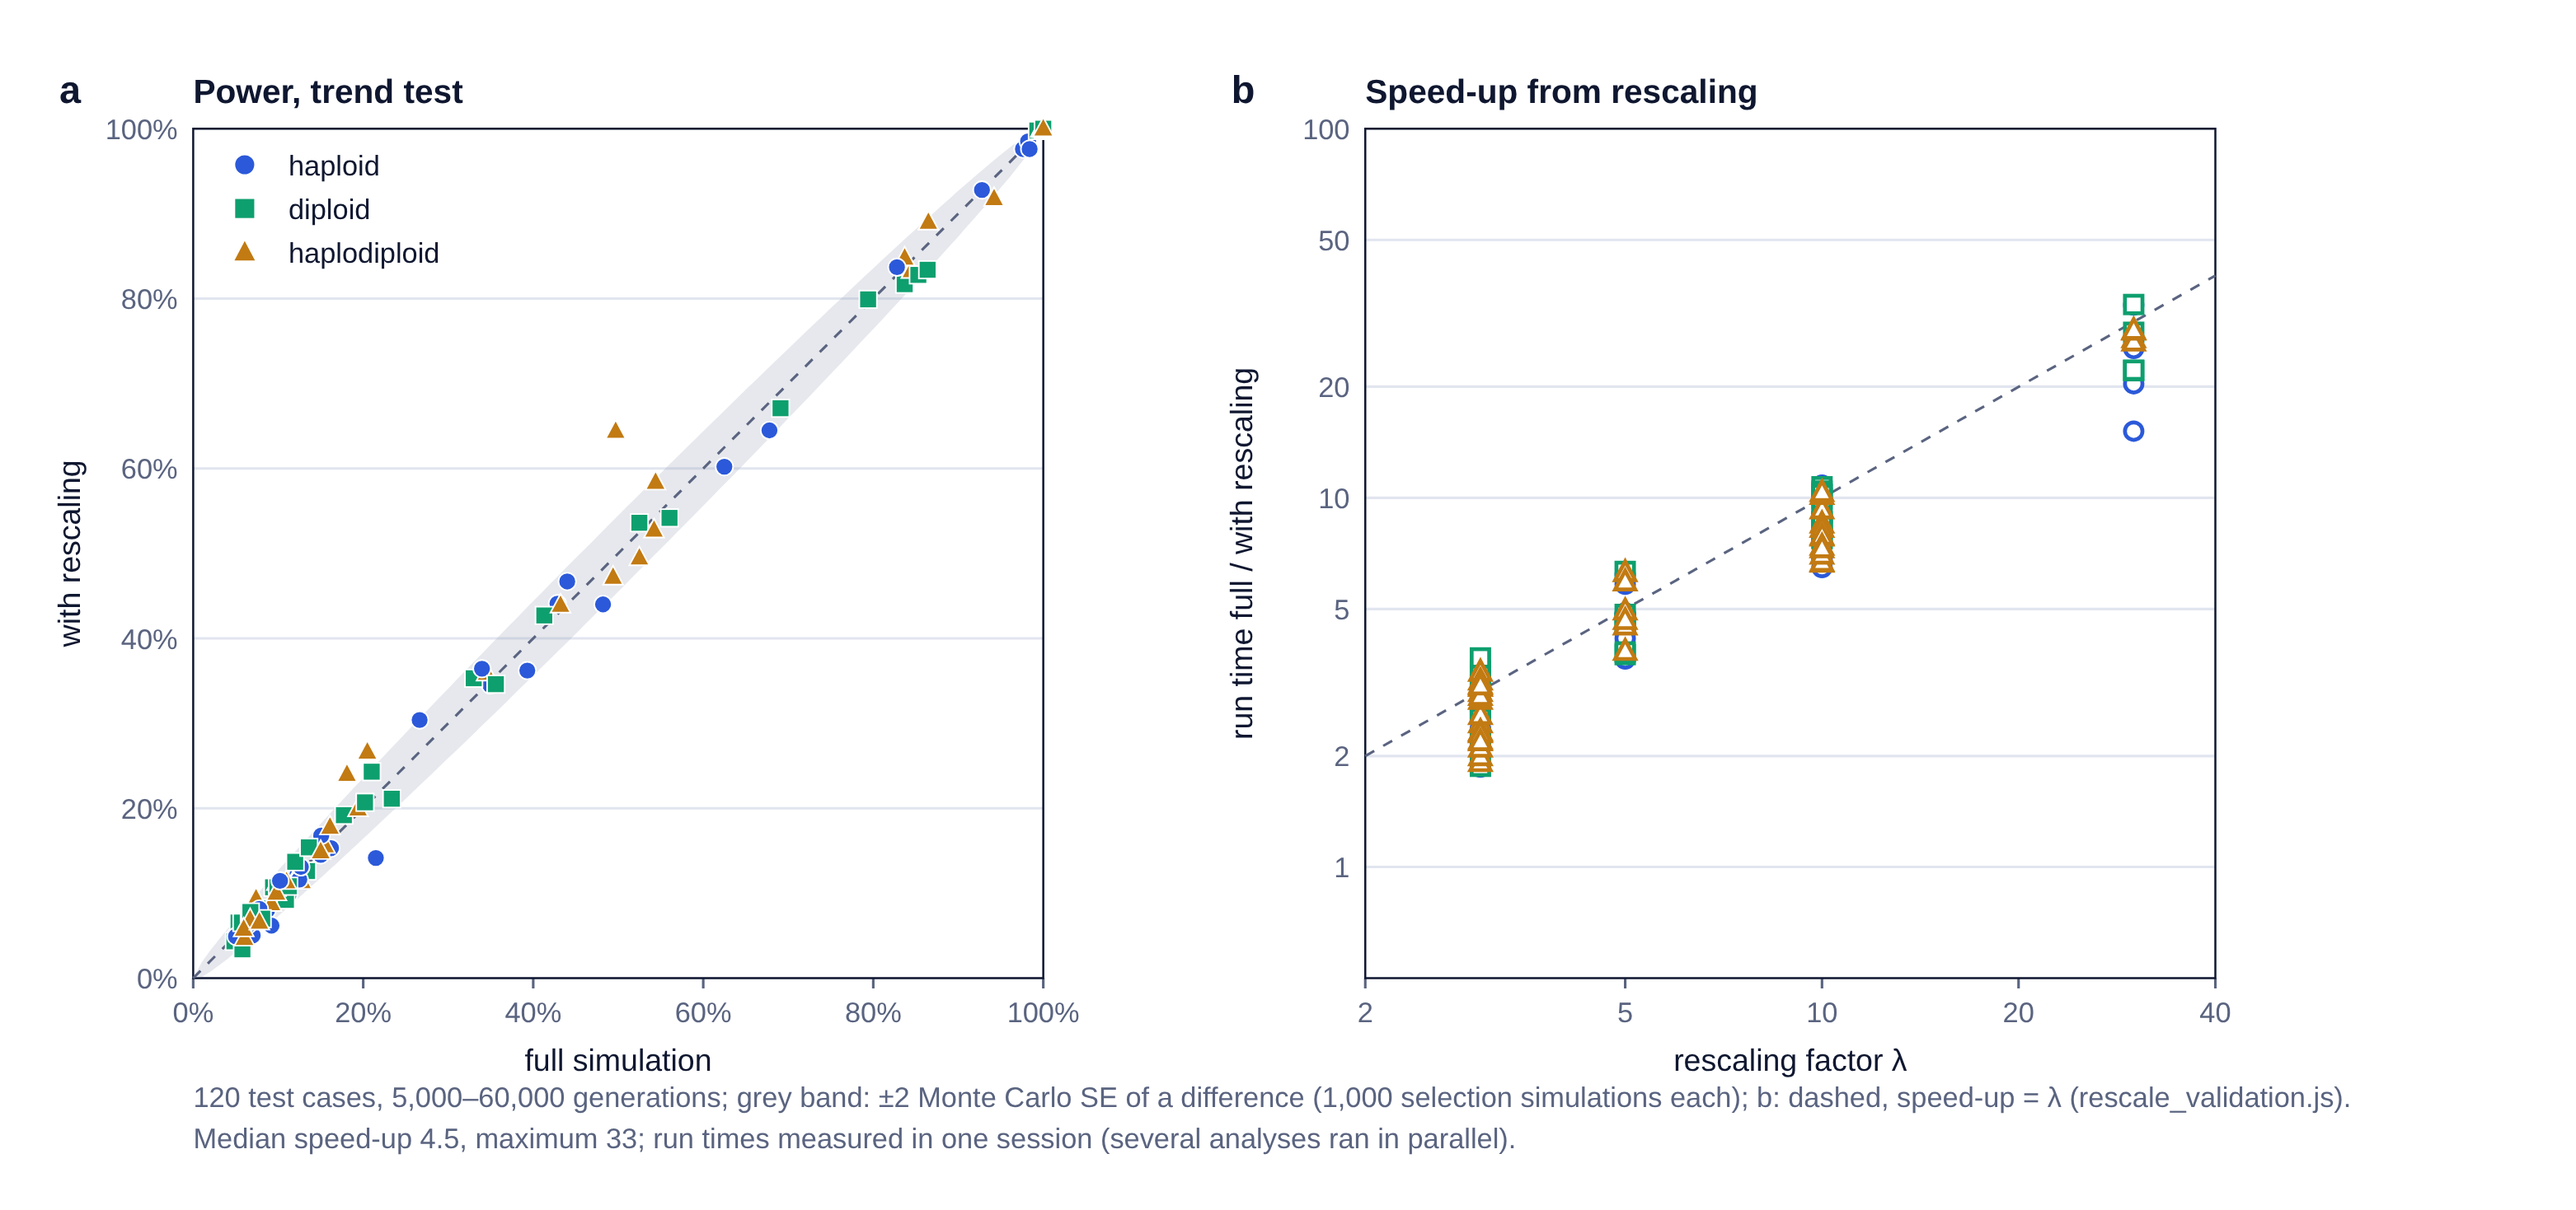
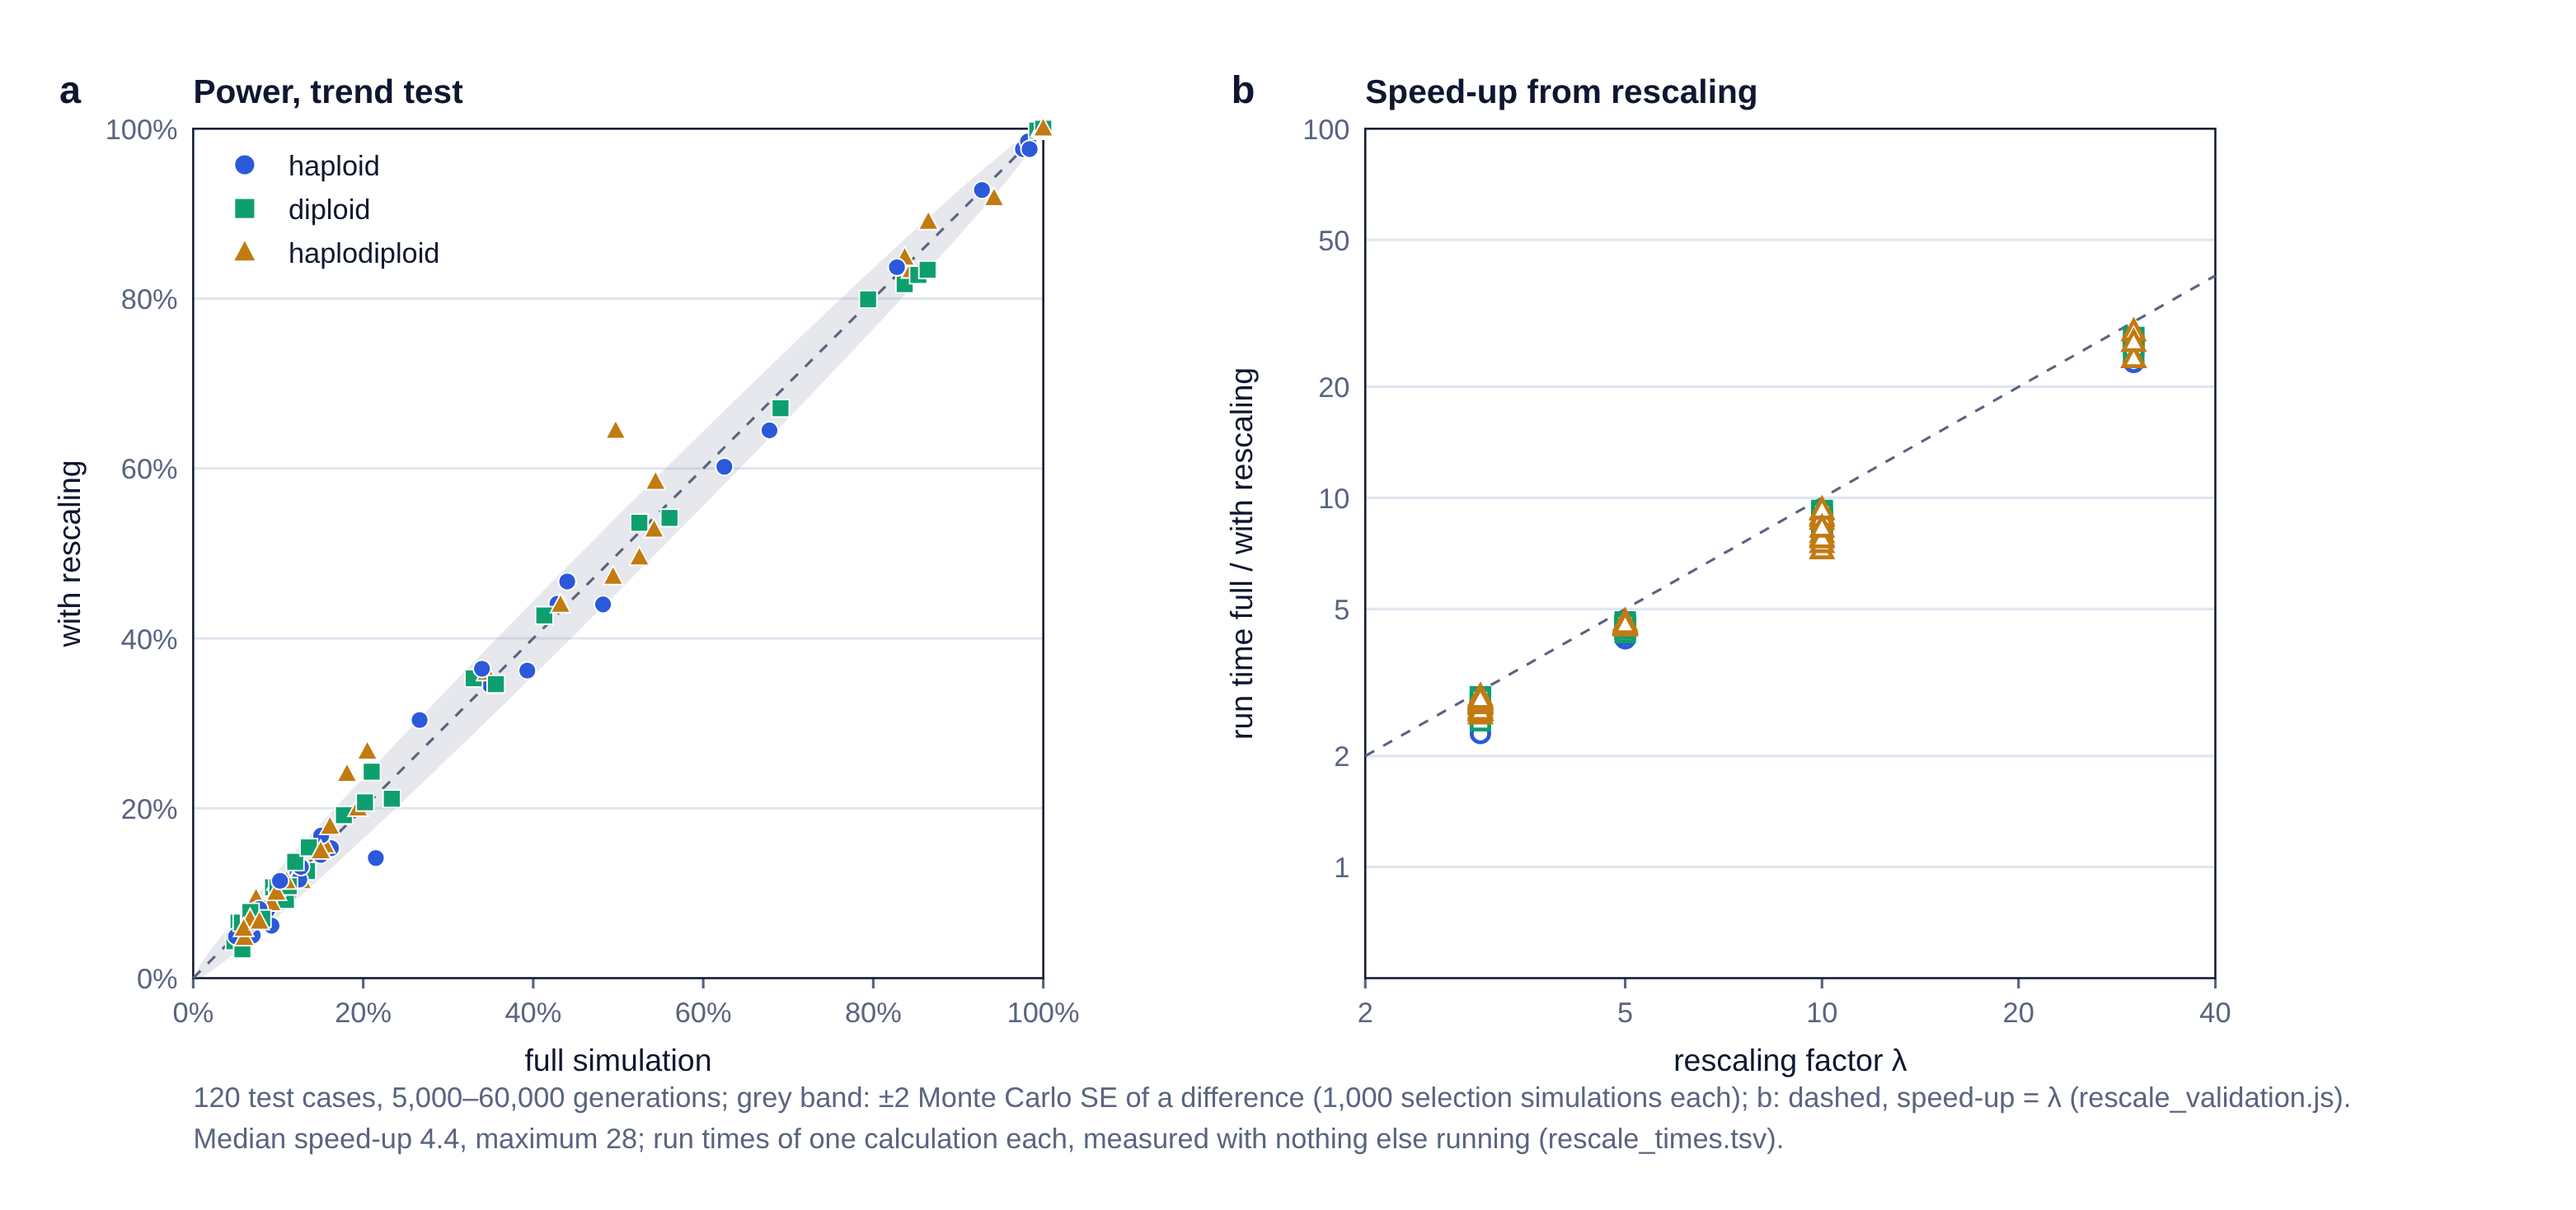
Rescaling run times measured alone (rescale_times.tsv)
rescale_validation.js: timing-only mode (times [G]) that reruns the two
runPower() calls of each test case and records their run times. Run in
three batches (G = 5,000, 20,000, 60,000) with nothing else running.
Speed-up: median 4.4, maximum 28.1 (5,000 generations: 2.7, 2.9;
20,000: 7.9, 9.3; 60,000: 26.0, 28.1). Figure S4b uses these times.

(cherry picked from commit 17eaf7e8709fe5319845c16f0fc621db07ad7532)

diff --git a/validation/rescale_validation.js b/validation/rescale_validation.js
@@ -1,5 +1,8 @@
 // Validation of SPOT's rescaling: full (exact) simulations vs rescaled ones on the same designs.
 // Run from the repository root: node validation/rescale_validation.js > validation/rescale_results.tsv
+// Timing only (nothing else running on the machine): node validation/rescale_validation.js times [G]  (G = 5000, 20000 or 60000;
+//   without G, all; with G, no header unless G = 5000) -> validation/rescale_times.tsv. Reruns the same two runPower() calls
+//   per test case (full, then rescaled) and records only their run times.
 const S=require('../sim.js');
 const base={system:'haploid',genTime:1,Nf:1e4,Nm:1e4,noDrift:false,p0:0.1,s:0.0005,h:0.5,onset:0,n:[20,20,20,40],perfect:false,depthEarly:10,depthLast:15,err:0.005,minDP:3,alpha:0.05,m:1,sMale:1,decline:1,mig:0,pMig:-1,kSib:1,maleFrac:0,reps:1000,seed:1};
 const designFor=G=>({years:[0,Math.round(G/3),Math.round(2*G/3),G]});
@@ -7,12 +10,18 @@ const designFor=G=>({years:[0,Math.round(G/3),Math.round(2*G/3),G]});
 function finalFreq(P,s,reps,seed){ const Q=S.prep(Object.assign({},P,{n:P.n.map(()=>0)})), R=S.makeRng(seed); const out=new Float64Array(reps);
   for(let r=0;r<reps;r++){ const o=S.simulateRep(Q,s,R,true); out[r]=o.traj[o.traj.length-1]; } return out; }
 const stats=a=>{let m=0;for(const x of a)m+=x;m/=a.length;let v=0;for(const x of a)v+=(x-m)*(x-m);v/=a.length-1;let lost=0,fix=0;for(const x of a){if(x<=0)lost++;if(x>=1)fix++}return {mean:m,sd:Math.sqrt(v),lost:lost/a.length,fixed:fix/a.length}};
+const TIMES=process.argv[2]==='times', ONLY=process.argv[3]?+process.argv[3]:null;
+if(TIMES&&(!ONLY||ONLY===5000)) console.log(['G','system','N','s','p0','lambda','ms_exact','ms_rescaled','speedup'].join('\t'));
 const rows=[['G','system','N','s','p0','lambda','scaled_s','scaled_N','power_exact','power_rescaled','two_exact','two_rescaled','crit_exact','crit_rescaled','naiveFPR_exact','naiveFPR_rescaled','meanFinal_exact','meanFinal_rescaled','sdFinal_exact','sdFinal_rescaled','neutralSD_exact','neutralSD_rescaled','neutralSD_theory','ms_exact','ms_rescaled']];
 const t0=Date.now();
 for(const G of [5000,20000,60000]) for(const system of ['haploid','diploid','haplodiploid']) for(const N of [1e3,1e4,1e5]) for(const s of [0.0001,0.0005,0.002]) for(const p0 of [0.01,0.1]){
   if(G===60000&&(N<1e4||s>0.0005||p0<0.1)) continue; // long runs: a subset, to keep the exact simulations affordable
   const P=Object.assign({},base,designFor(G),{system,Nf:N,Nm:N,s,p0});
   const sc=S.rescale(P); if(sc.lambda===1) continue;
+  if(TIMES){ if(ONLY&&G!==ONLY) continue;
+    let t=Date.now(); S.runPower(Object.assign({},P,{noRescale:true})); const te=Date.now()-t;
+    t=Date.now(); S.runPower(Object.assign({},P,{seed:2})); const tr=Date.now()-t;
+    console.log([G,system,N,s,p0,sc.lambda,te,tr,(te/tr).toFixed(2)].join('\t')); console.error(G,system,N,s,p0,te,tr); continue; }
   let t=Date.now(); const e=S.runPower(Object.assign({},P,{noRescale:true})); const te=Date.now()-t;
   t=Date.now(); const r=S.runPower(Object.assign({},P,{seed:2})); const tr=Date.now()-t;
   const fe=stats(finalFreq(Object.assign({},P,{noRescale:true}),s,1000,3)), fr=stats(finalFreq(sc.P,sc.P.s,1000,4));
@@ -22,4 +31,4 @@ for(const G of [5000,20000,60000]) for(const system of ['haploid','diploid','hap
     +fe.mean.toFixed(4),+fr.mean.toFixed(4),+fe.sd.toFixed(4),+fr.sd.toFixed(4),+ne.sd.toFixed(4),+nr.sd.toFixed(4),+sdTheory.toFixed(4),te,tr]);
   console.error(rows.length-1, G,system,N,s,p0,'lambda',sc.lambda,'power',e.trend.powerEmp,r.trend.powerEmp,((Date.now()-t0)/1000).toFixed(0)+'s');
 }
-console.log(rows.map(r=>r.join('\t')).join('\n'));
+if(!TIMES) console.log(rows.map(r=>r.join('\t')).join('\n'));

diff --git a/supplement_figures/make_figures.py b/supplement_figures/make_figures.py
@@ -65,7 +65,9 @@ a.line([0, 1], [0, 1], COL['muted'], 1, '4 4')
 for r in Rs:
     a.points([fl(r['power_exact'])], [fl(r['power_rescaled'])], SYS[r['system']], SYSM[r['system']], 3.4)
 a.legend([(k, c, SYSM[k]) for k, c in SYS.items()], a.x + 10, a.y + 18)
-sp = [fl(r['ms_exact']) / max(fl(r['ms_rescaled']), 1) for r in Rs]
+Tm = rd('validation/rescale_times.tsv')   # run times measured alone (rescale_validation.js times), same order as Rs
+assert [(r['G'], r['system'], r['N'], r['s'], r['p0']) for r in Tm] == [(r['G'], r['system'], r['N'], r['s'], r['p0']) for r in Rs]
+sp = [fl(r['speedup']) for r in Tm]
 b = Ax(F, 530, 50, 330, 330, (2, 40), (0.5, 100), xlog=True, ylog=True, title='Speed-up from rescaling', label='b')
 b.frame([2, 5, 10, 20, 40], [1, 2, 5, 10, 20, 50, 100], 'rescaling factor λ', 'run time full / with rescaling')
 b.line([2, 40], [2, 40], COL['muted'], 1, '4 4')
@@ -73,7 +75,7 @@ for r, v in zip(Rs, sp):
     b.points([fl(r['lambda'])], [v], SYS[r['system']], SYSM[r['system']], 3.4, True)
 F.text(75, 430, f'{len(Rs)} test cases, 5,000–60,000 generations; grey band: ±2 Monte Carlo SE of a difference (1,000 selection simulations each); '
        f'b: dashed, speed-up = λ (rescale_validation.js).', 11, color=COL['muted'])
-F.text(75, 446, f'Median speed-up {st.median(sp):.1f}, maximum {max(sp):.0f}; run times measured in one session (several analyses ran in parallel).', 11, color=COL['muted'])
+F.text(75, 446, f'Median speed-up {st.median(sp):.1f}, maximum {max(sp):.0f}; run times of one calculation each, measured with nothing else running (rescale_times.tsv).', 11, color=COL['muted'])
 print('FigS4', F.save(OUT + 'FigS4_rescaling.svg'), 'median speed-up', round(st.median(sp), 2), 'max', round(max(sp), 1))
 
 # ---------- S5: human ancient DNA (copy) ----------
